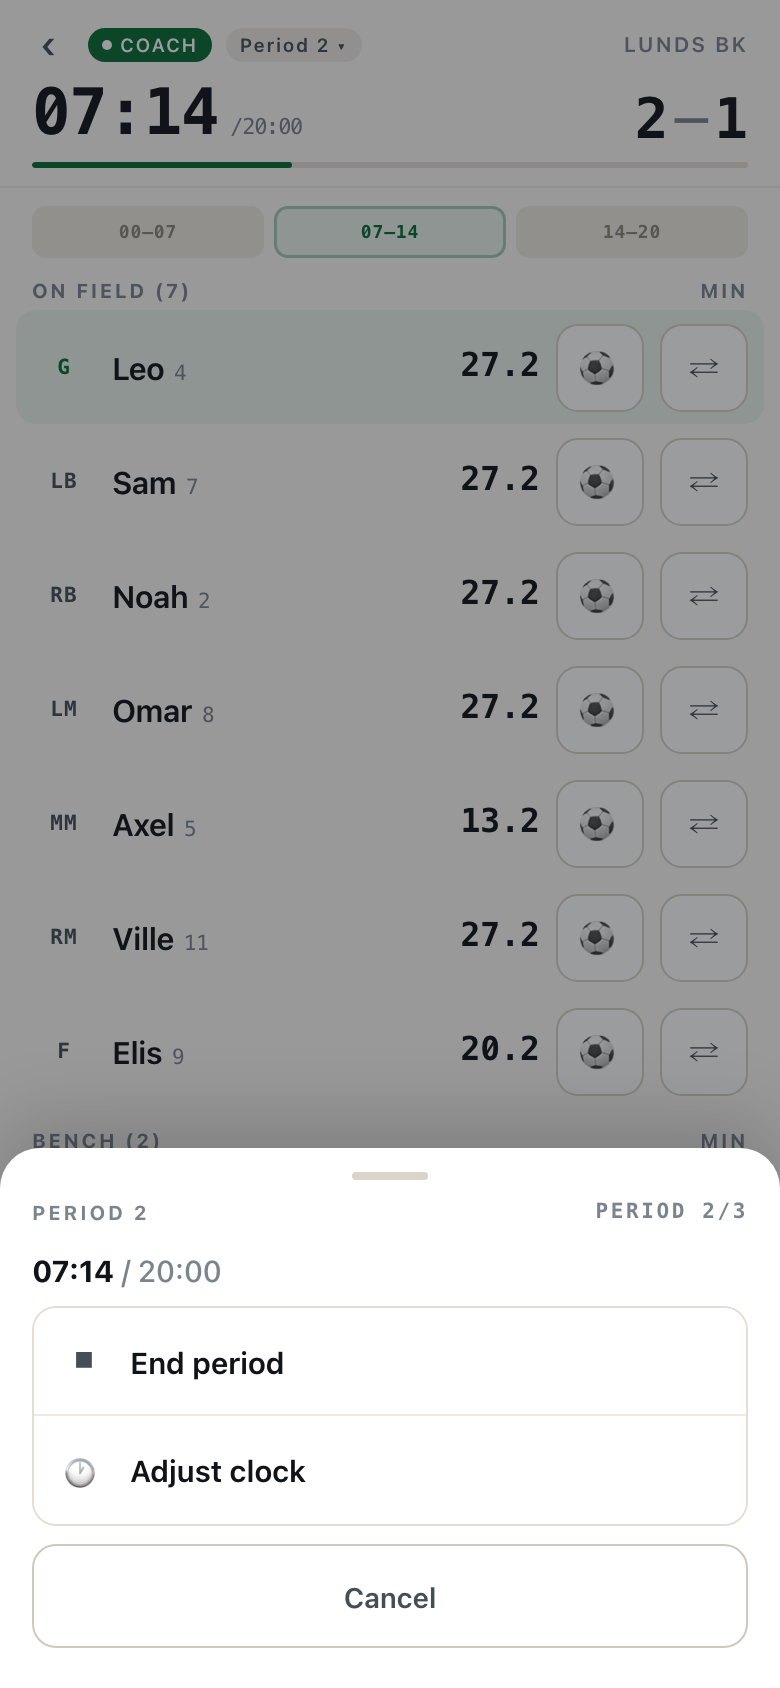
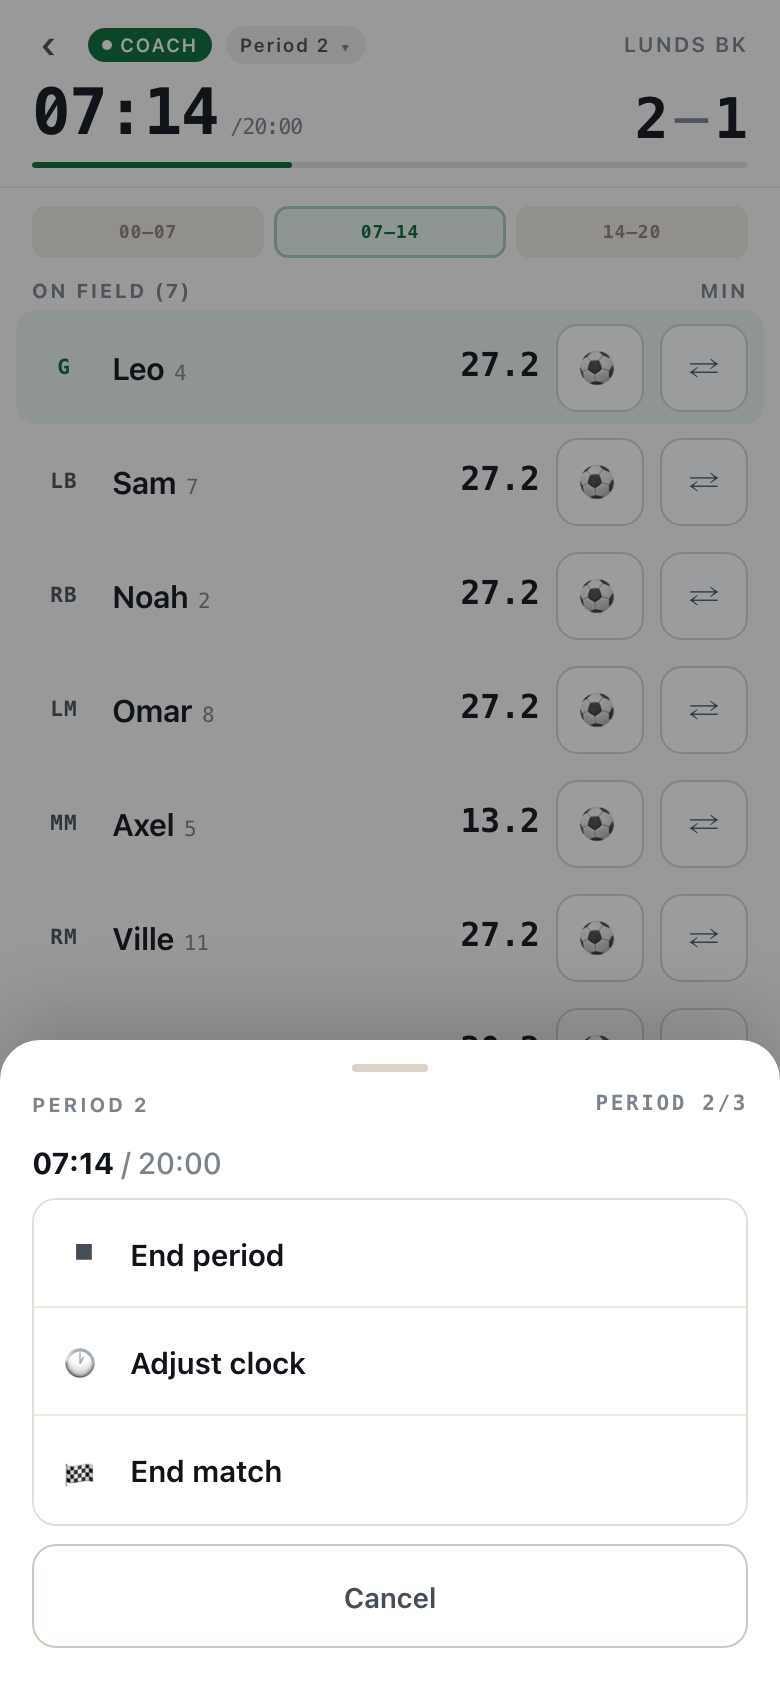
multiple matches in advance; end match at any time; finalize freezes the clock

diff --git a/app.js b/app.js
@@ -25,6 +25,7 @@ const s = {
   toast: null,
   route: null,
   tab: 'match',
+  creating: false,
 };
 
 function config() {
@@ -51,7 +52,8 @@ function boot() {
   setLang(s.lang);
   s.team = store.loadTeam();
   const matches = store.listMatches();
-  s.match = matches.find((m) => m.status !== 'final') || matches[matches.length - 1] || null;
+  // Land on the live match only; everything else is opened from the list.
+  s.match = matches.find((m) => m.status === 'live') || null;
   if (s.match) {
     s.plan = store.loadPlan(s.match.id);
     s.events = store.loadEvents(s.match.id);
@@ -152,8 +154,9 @@ const esc = (v) => String(v ?? '').replace(/[&<>"]/g, (c) => ({ '&': '&amp;', '<
 
 function routeNow() {
   if (!s.team || !s.team.players?.length) return 'setup';
-  if (!s.match) return 'setup';
+  if (s.creating) return 'setup';
   if (s.route === 'home') return 'setup';
+  if (!s.match) return 'setup';
   if (s.match.status === 'live') return 'live';
   if (s.match.status === 'final') return s.route === 'setup' ? 'setup' : 'recap';
   return s.route === 'plan' ? 'plan' : 'setup';
@@ -219,35 +222,66 @@ function viewSetup() {
   const tabs = [['match', T('tabMatch')], ['squad', T('tabSquad')], ['history', T('tabHistory')]]
     .map(([k, label]) => `<button class="tab${s.tab === k ? ' on' : ''}" data-act="tab:${k}">${label}</button>`)
     .join('');
-  const body = s.tab === 'squad' ? squadCard() : s.tab === 'history' ? historyCard() : matchCard();
+  const body = s.tab === 'squad' ? squadCard() : s.tab === 'history' ? historyCard() : matchTab();
   const lang = `<button class="chip period" data-act="lang">${T('language')}</button>`;
   return headerPlain(s.team?.name || T('app'), T('tab' + s.tab[0].toUpperCase() + s.tab.slice(1)), lang)
     + `<div class="view"><div class="tabs">${tabs}</div><div class="setup">${body}</div></div>`;
 }
 
-function matchCard() {
-  if (s.match && s.match.status !== 'final') {
-    const p = proj();
-    const live = s.match.status === 'live';
-    return `<div class="card">
+function shortDate(iso) {
+  if (!iso) return '—';
+  const d = new Date(iso);
+  if (Number.isNaN(d.getTime())) return '—';
+  return d.toLocaleDateString(s.lang === 'sv' ? 'sv-SE' : 'en-GB', { day: 'numeric', month: 'short' });
+}
+
+function selectMatch(match) {
+  s.match = match;
+  s.plan = store.loadPlan(match.id);
+  s.events = store.loadEvents(match.id);
+  s.creating = false;
+  s.sheet = null;
+}
+
+/**
+ * Match tab: the live match if there is one, then everything planned ahead.
+ * Planning several matches in advance is the whole point of this list.
+ */
+function matchTab() {
+  if (!s.team.players.length) return `<div class="empty">${T('squadEmpty')}</div>`;
+
+  const all = store.listMatches();
+  const live = all.find((m) => m.status === 'live');
+  const upcoming = all
+    .filter((m) => m.status === 'setup')
+    .sort((a, b) => String(a.kickoff || '9999').localeCompare(String(b.kickoff || '9999')));
+
+  if (s.creating || (!live && !upcoming.length)) return newMatchForm(!all.length);
+
+  const liveP = live ? project(store.loadEvents(live.id), live, Date.now()) : null;
+
+  return `
+    ${live ? `<div class="card">
       <h3>${T('inProgress')}</h3>
-      <div style="font-size:16px;font-weight:700">${esc(s.match.opponent || '—')}</div>
-      <div class="muted" style="margin-top:4px">${esc(s.match.kickoff || '')} · ${config().periodCount} × ${config().periodMinutes} ${T('min')}</div>
-      ${live ? `<div style="font:700 15px/1 var(--num);margin-top:10px">${p.score.for}–${p.score.against} · ${T('periodN', { n: p.period })}</div>` : ''}
-      <div style="display:flex;gap:7px;margin-top:12px">
-        ${live
-          ? `<button class="btn primary" data-act="resume">${T('resume')}</button>`
-          : `<button class="btn wide" data-act="nav:plan">${T('openPlan')}</button>
-             <button class="btn primary" data-act="startmatch">${T('startMatch')}</button>`}
-      </div>
-      <button class="btn wide" style="margin-top:7px;color:var(--red);border-color:#e6cfcc" data-act="deletematch">${T('deleteMatch')}</button>
+      <div style="font-size:16px;font-weight:700">${esc(live.opponent || '—')}</div>
+      <div style="font:700 15px/1 var(--num);margin-top:8px">${liveP.score.for}–${liveP.score.against}
+        · ${T('periodN', { n: liveP.period })}</div>
+      <button class="btn primary" style="width:100%;margin-top:12px" data-act="resume">${T('resume')}</button>
+    </div>` : ''}
+    <div class="card">
+      <h3>${T('upcoming')}</h3>
+      ${upcoming.length
+        ? upcoming.map((m) => `<button class="matchrow" data-act="openmatch:${m.id}">
+            <span class="dt">${shortDate(m.kickoff)}</span>
+            <span class="opp">${esc(m.opponent || '—')}</span>
+            <span style="color:var(--ink3);font-size:17px;line-height:1">›</span>
+          </button>`).join('')
+        : `<div class="muted">${T('noUpcoming')}</div>`}
+      <button class="btn wide" style="margin-top:12px" data-act="newmatch">+ ${T('planAnother')}</button>
     </div>`;
-  }
+}
 
-  if (!s.team || !s.team.players?.length) {
-    return `<div class="empty">${T('squadEmpty')}</div>`;
-  }
-
+function newMatchForm(onlyOption = false) {
   return `<div class="card">
     <h3>${T('newMatch')}</h3>
     <form id="matchform">
@@ -257,9 +291,9 @@ function matchCard() {
         <input name="kickoff" type="date"></div>
       <div class="rowline">
         <div class="field"><label>${T('periods')}</label>
-          <input name="periods" type="number" min="1" max="6" value="${s.team?.periodCount || 3}" inputmode="numeric"></div>
+          <input name="periods" type="number" min="1" max="6" value="3" inputmode="numeric"></div>
         <div class="field"><label>${T('minutesEach')}</label>
-          <input name="minutes" type="number" min="5" max="45" value="${s.team?.periodMinutes || 20}" inputmode="numeric"></div>
+          <input name="minutes" type="number" min="5" max="45" value="20" inputmode="numeric"></div>
       </div>
       <div class="field"><label>${T('blockLength')}</label>
         <select name="block">
@@ -267,7 +301,10 @@ function matchCard() {
           <option value="5">${T('block5')}</option>
           <option value="10">${T('block10')}</option>
         </select></div>
-      <button class="btn primary" style="width:100%;margin-top:4px" data-act="creatematch">${T('createMatch')}</button>
+      <div class="rowline" style="margin-top:4px">
+        ${onlyOption ? '' : `<button class="btn wide" data-act="cancelnew">${T('cancel')}</button>`}
+        <button class="btn primary" data-act="creatematch">${T('createMatch')}</button>
+      </div>
     </form>
   </div>`;
 }
@@ -373,7 +410,10 @@ function viewPlan() {
 
   return headerPlain(`${T('plan')} · ${esc(s.team.name)} · ${c.periodCount} × ${c.periodMinutes}`,
     s.match?.opponent || '',
-    `<button class="chip period" data-act="nav:setup">${T('cancel')}</button>`)
+    `<div style="display:flex;gap:5px">
+       <button class="chip period" data-act="deletematch" aria-label="${T('deleteMatch')}">🗑</button>
+       <button class="chip period" data-act="nav:setup">${T('cancel')}</button>
+     </div>`)
     + `<div class="view">
       ${errHtml}
       ${tables.join('')}
@@ -583,7 +623,7 @@ function renderSheet() {
       <div class="pacts">
         ${running ? `<button class="pact" data-act="endperiod"><span class="i">⏹</span>${T('endPeriod')}</button>` : ''}
         <button class="pact" data-act="clockadjust"><span class="i">🕐</span>${T('adjustClock')}</button>
-        ${last ? `<button class="pact" data-act="finalize"><span class="i">🏁</span>${T('fullTime')}</button>` : ''}
+        <button class="pact" data-act="finalize"><span class="i">🏁</span>${T('endMatch')}</button>
       </div>
       ${close}
     </div>`;
@@ -700,6 +740,7 @@ function createMatch(form) {
   s.match = m;
   s.plan = [];
   s.events = [];
+  s.creating = false;
   saveMatch(m);
   store.savePlan(m.id, []);
   s.route = 'plan';
@@ -789,7 +830,18 @@ function handle(ev) {
     case 'lang': switchLang(); return;
     case 'nav': s.route = a === 'plan' ? 'plan' : null; render(); return;
     case 'home': s.route = 'home'; s.tab = 'match'; s.sheet = null; render(); return;
-    case 'resume': s.route = 'live'; s.sheet = null; render(); return;
+    case 'resume': {
+      const live = store.listMatches().find((m) => m.status === 'live');
+      if (live) selectMatch(live);
+      s.route = 'live'; s.sheet = null; render(); return;
+    }
+    case 'openmatch': {
+      const m = store.listMatches().find((x) => x.id === a);
+      if (m) { selectMatch(m); s.route = 'plan'; }
+      render(); return;
+    }
+    case 'newmatch': s.creating = true; s.route = null; render(); return;
+    case 'cancelnew': s.creating = false; render(); return;
     case 'periodsheet': s.sheet = { kind: 'period' }; render(); return;
     case 'clockadjust': s.sheet = { kind: 'clock' }; render(); return;
     case 'endperiod': {
@@ -815,6 +867,7 @@ function handle(ev) {
     case 'autoplan': autoPlan(); return;
     case 'startmatch': startMatch(); return;
     case 'finalize': {
+      if (!confirm(T('confirmEnd'))) return;
       act('finalize', {}, { silent: true });
       s.match.status = 'final'; saveMatch();
       s.route = 'recap'; s.sheet = null; render(); return;

diff --git a/i18n/sv.js b/i18n/sv.js
@@ -93,6 +93,9 @@ export default {
   deletePlayer: 'Ta bort', confirmDelete: 'Ta bort matchen och dess logg?',
   benchShort: 'BÄNK', autoFill: 'Fyll automatiskt',
   home: 'Hem', resume: 'Fortsätt',
+  upcoming: 'Kommande', planAnother: 'Planera ännu en match', notStarted: 'Ej startad',
+  endMatch: 'Avsluta match', confirmEnd: 'Avsluta matchen nu? Klockan stannar och matchen stängs.',
+  noUpcoming: 'Inga matcher planerade.',
   tapEmptyCell: 'Tryck på en ruta för att sätta en spelare. Bänkraden visar vilka som vilar i det blocket.',
 
   pos: {

diff --git a/i18n/en.js b/i18n/en.js
@@ -103,6 +103,9 @@ export default {
   deletePlayer: 'Remove', confirmDelete: 'Delete this match and its log?',
   benchShort: 'BENCH', autoFill: 'Auto-fill',
   home: 'Home', resume: 'Resume',
+  upcoming: 'Upcoming', planAnother: 'Plan another match', notStarted: 'Not started',
+  endMatch: 'End match', confirmEnd: 'End this match now? The clock stops and the match is closed.',
+  noUpcoming: 'No matches planned.',
   tapEmptyCell: 'Tap a cell to place a player. The bench row shows who is sitting out that block.',
 
   pos: {

diff --git a/engine.js b/engine.js
@@ -371,6 +371,9 @@ export function project(events = [], config = {}, nowMs = Date.now()) {
         break;
 
       case 'finalize':
+        // The match is over: stop the clock, or every subsequent projection
+        // would keep crediting minutes to whoever is on the field.
+        st.state = 'ended';
         st.status = 'final';
         break;
 
